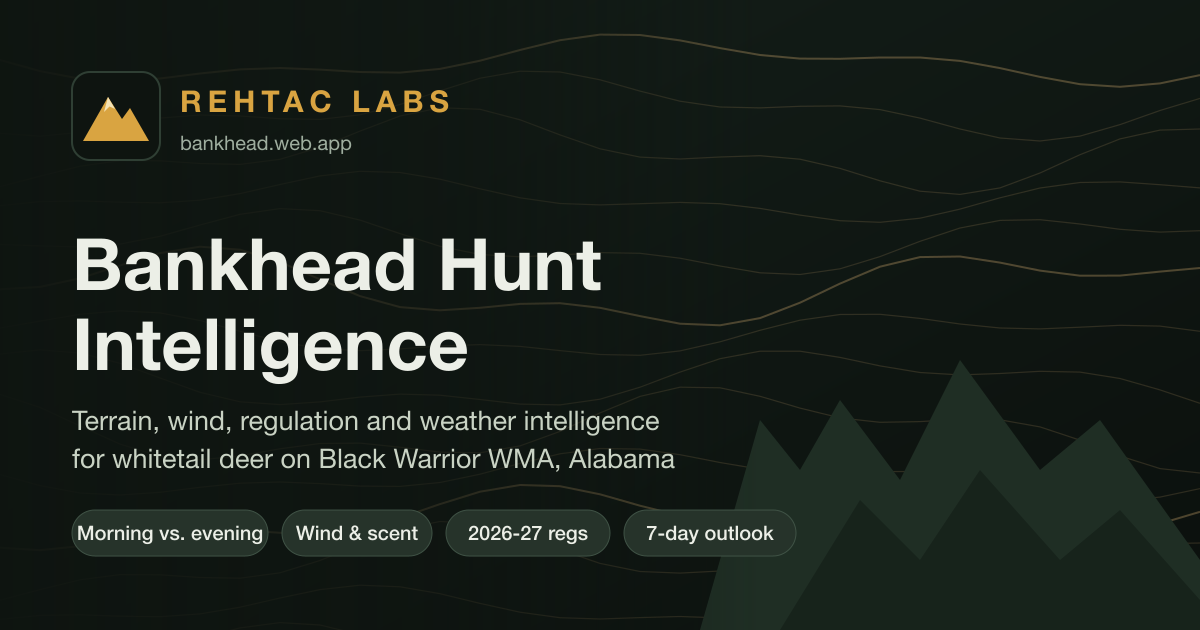
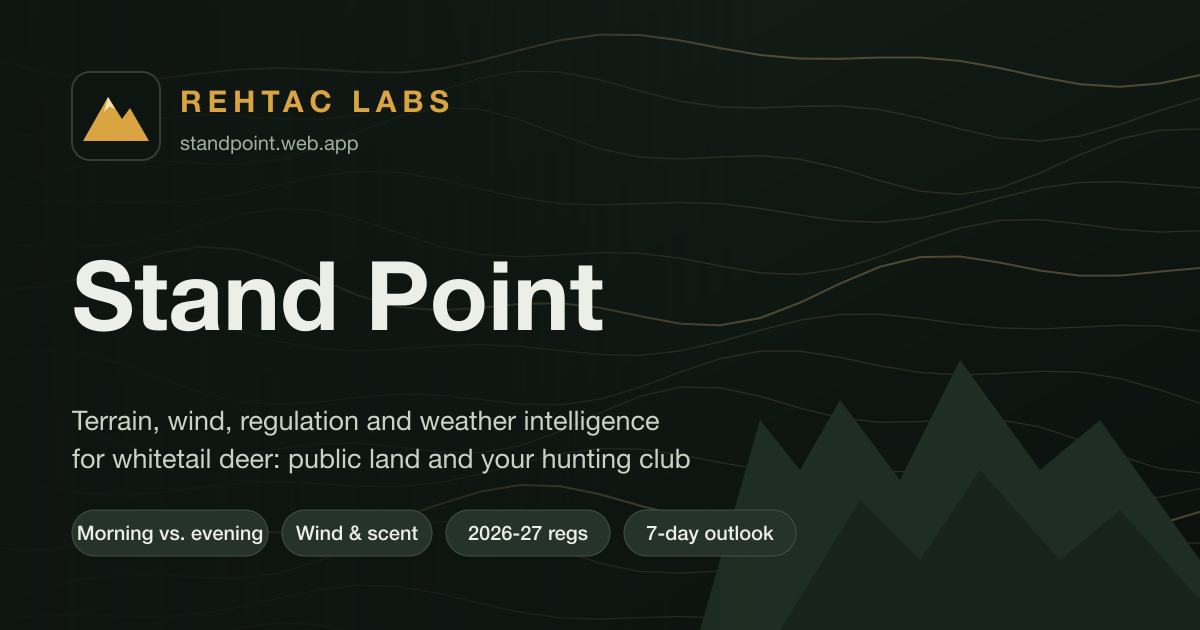
Rename to Stand Point at standpoint.web.app
The app now covers private hunting clubs as well as Bankhead, so it gets a
name that isn't tied to one forest. New hosting site standpoint; the old
bankhead site gets a forwarding page (redirect/) and a service worker that
retires the old installed app. Sign-in uses whichever site serves the page.

Changed region(s): [[0.0617, 0.3619, 0.5242, 0.6333], [0.2158, 0.6937, 0.5858, 0.754], [0.1542, 0.2111, 0.3083, 0.2413]]

diff --git a/src/features/you/YouScreen.tsx b/src/features/you/YouScreen.tsx
@@ -23,7 +23,7 @@ export function YouScreen({ ctl, account, sync, theme, setTheme, journal, canIns
   const openWorkspace = (id: string) => { ctl.switchWorkspace(id); window.location.hash = '/explore'; };
   const t = syncText(sync);
 
-  const exportJson = () => downloadText(`bankhead-backup-${localDate()}.json`, JSON.stringify({ app: 'bankhead-hunt-intelligence', version: 2, exported: new Date().toISOString(), journal, pins: ctl.pins, prefs: ctl.prefs }, null, 1));
+  const exportJson = () => downloadText(`standpoint-backup-${localDate()}.json`, JSON.stringify({ app: 'bankhead-hunt-intelligence', version: 2, exported: new Date().toISOString(), journal, pins: ctl.pins, prefs: ctl.prefs }, null, 1));
   const importGpx = async (f: File) => {
     try {
       const incoming = gpxToPins(await f.text());
@@ -90,7 +90,7 @@ export function YouScreen({ ctl, account, sync, theme, setTheme, journal, canIns
       <div className="section-label">Your data</div>
       <div className="list">
         <ListRow icon={<Download size={18} />} title="Export backup" sub={`${journal.length} journal entries, ${ctl.pins.length} pins (.json)`} onClick={exportJson} />
-        <ListRow icon={<MapPin size={18} />} title="Export pins as GPX" sub="For your GPS or another app" onClick={() => downloadText(`bankhead-pins-${localDate()}.gpx`, pinsToGpx(ctl.pins as PinDoc[]), 'application/gpx+xml')} disabled={!ctl.pins.length} />
+        <ListRow icon={<MapPin size={18} />} title="Export pins as GPX" sub="For your GPS or another app" onClick={() => downloadText(`standpoint-pins-${localDate()}.gpx`, pinsToGpx(ctl.pins as PinDoc[]), 'application/gpx+xml')} disabled={!ctl.pins.length} />
         <label className="list-row file-row"><span className="ico"><Upload size={18} /></span><span className="grow"><div className="title">Import pins from GPX</div><div className="sub">Waypoints from a GPS or hunting app</div></span><input type="file" accept=".gpx,application/gpx+xml" onChange={(e) => { const f = e.target.files?.[0]; if (f) void importGpx(f); e.currentTarget.value = ''; }} /></label>
       </div>
 
@@ -99,7 +99,7 @@ export function YouScreen({ ctl, account, sync, theme, setTheme, journal, canIns
         {canInstall && <ListRow icon={<Smartphone size={18} />} tone="brand" title="Install on this device" sub="Opens full-screen, keeps maps for weak signal" onClick={onInstall} />}
         <ListRow icon={<FileText size={18} />} title="Sources and methods" sub="Data inventory, regulations, known gaps" onClick={() => setPage('sources')} />
         <ListRow icon={<Shield size={18} />} title="Privacy" sub="Your journal and pins are visible only to you. A club is visible only to its members." />
-        <ListRow icon={<Info size={18} />} title="Bankhead Hunt Intelligence" sub="© Rehtac Software LLC · decision support only" />
+        <ListRow icon={<Info size={18} />} title="Stand Point" sub="© Rehtac Software LLC · decision support only" />
       </div>
       {u && <Button block icon={<LogOut size={18} />} onClick={() => void account.signOut()} disabled={account.busy}>Sign out</Button>}
       {!u && <Button block variant="quiet" icon={<LogIn size={18} />} onClick={() => void account.signIn()}>Sign in</Button>}

diff --git a/redirect/index.html b/redirect/index.html
@@ -1,0 +1,43 @@
+<!doctype html>
+<html lang="en">
+<head>
+  <meta charset="utf-8" />
+  <meta name="viewport" content="width=device-width, initial-scale=1, viewport-fit=cover" />
+  <title>Stand Point has moved</title>
+  <meta name="theme-color" content="#0b100d" />
+  <link rel="canonical" href="https://standpoint.web.app/" />
+  <style>
+    :root { color-scheme: dark; }
+    body { margin: 0; min-height: 100vh; display: grid; place-items: center; background: #0b100d; color: #ecefe7; font: 16px/1.5 -apple-system, BlinkMacSystemFont, "Segoe UI", Inter, sans-serif; }
+    main { max-width: 420px; padding: 32px 20px; }
+    h1 { font-size: 26px; margin: 0 0 8px; }
+    p { color: #c9d3c4; margin: 0 0 14px; }
+    a.btn { display: block; text-align: center; background: #d9a441; color: #15201a; font-weight: 700; text-decoration: none; padding: 14px 18px; border-radius: 12px; margin: 20px 0; }
+    ol { color: #c9d3c4; padding-left: 20px; margin: 0; }
+    li + li { margin-top: 6px; }
+    small { color: #8a978a; }
+  </style>
+</head>
+<body>
+  <main>
+    <h1>Bankhead Hunt is now Stand Point</h1>
+    <p>Same app, new name and address, because it now covers more than Bankhead.</p>
+    <a class="btn" id="go" href="https://standpoint.web.app/">Open Stand Point</a>
+    <p id="installed" hidden><strong>Using the home-screen app?</strong></p>
+    <ol id="steps" hidden>
+      <li>Tap <em>Open Stand Point</em>, then sign in with Google. Your journal, pins, settings and club come back automatically.</li>
+      <li>Add it to your Home Screen (Share → Add to Home Screen).</li>
+      <li>Delete the old Bankhead Hunt icon.</li>
+    </ol>
+    <p style="margin-top:18px"><small>Offline maps you saved need to be saved again in the new app.</small></p>
+  </main>
+  <script>
+    // keep the path and hash (e.g. #you) so links in old invitations still land in the right place
+    var dest = 'https://standpoint.web.app' + location.pathname + location.search + location.hash;
+    document.getElementById('go').href = dest;
+    var standalone = matchMedia('(display-mode: standalone)').matches || navigator.standalone === true;
+    if (standalone) { document.getElementById('installed').hidden = false; document.getElementById('steps').hidden = false; }
+    else location.replace(dest);
+  </script>
+</body>
+</html>

diff --git a/index.html b/index.html
@@ -11,21 +11,21 @@
     <meta name="apple-mobile-web-app-capable" content="yes" />
     <meta name="apple-mobile-web-app-status-bar-style" content="black-translucent" />
     <meta name="description" content="Terrain, wind, regulation and weather intelligence for deer hunting on Black Warrior WMA / Bankhead National Forest." />
-    <title>Bankhead Hunt Intelligence</title>
-    <link rel="canonical" href="https://bankhead.web.app/" />
+    <title>Stand Point</title>
+    <link rel="canonical" href="https://standpoint.web.app/" />
     <meta property="og:type" content="website" />
     <meta property="og:site_name" content="Rehtac Labs" />
-    <meta property="og:url" content="https://bankhead.web.app/" />
-    <meta property="og:title" content="Bankhead Hunt Intelligence" />
+    <meta property="og:url" content="https://standpoint.web.app/" />
+    <meta property="og:title" content="Stand Point" />
     <meta property="og:description" content="Terrain, wind, regulation and weather intelligence for whitetail deer on Black Warrior WMA / Bankhead National Forest, Alabama." />
-    <meta property="og:image" content="https://bankhead.web.app/og.png" />
+    <meta property="og:image" content="https://standpoint.web.app/og.png" />
     <meta property="og:image:width" content="1200" />
     <meta property="og:image:height" content="630" />
-    <meta property="og:image:alt" content="Bankhead Hunt Intelligence — terrain, wind, regulation and weather intelligence for Black Warrior WMA" />
+    <meta property="og:image:alt" content="Stand Point — terrain, wind, regulation and weather intelligence for Black Warrior WMA" />
     <meta name="twitter:card" content="summary_large_image" />
-    <meta name="twitter:title" content="Bankhead Hunt Intelligence" />
+    <meta name="twitter:title" content="Stand Point" />
     <meta name="twitter:description" content="Terrain, wind, regulation and weather intelligence for whitetail deer on Black Warrior WMA, Alabama." />
-    <meta name="twitter:image" content="https://bankhead.web.app/og.png" />
+    <meta name="twitter:image" content="https://standpoint.web.app/og.png" />
   </head>
   <body>
     <div id="root"></div>

diff --git a/src/engine/backup.ts b/src/engine/backup.ts
@@ -18,7 +18,7 @@ export function makeBackup(pins: UserPin[], journal: JournalEntry[], prefs: unkn
 
 export function parseBackup(text: string): Backup {
   const j = JSON.parse(text) as Partial<Backup>;
-  if (j.app !== 'bankhead-hunt-intelligence' || !Array.isArray(j.pins) || !Array.isArray(j.journal)) throw new Error('Not a Bankhead Hunt backup file.');
+  if (j.app !== 'bankhead-hunt-intelligence' || !Array.isArray(j.pins) || !Array.isArray(j.journal)) throw new Error('Not a Stand Point backup file.');
   return j as Backup;
 }
 
@@ -32,7 +32,7 @@ const esc = (s: string) => s.replace(/[<>&"]/g, (c) => ({ '<': '&lt;', '>': '&gt
 
 export function pinsToGpx(pins: UserPin[]): string {
   const wpts = pins.map((p) => `  <wpt lat="${p.coord[1]}" lon="${p.coord[0]}"><name>${esc(p.kind.replace('_', ' '))}${p.candidateId ? ` ${esc(p.candidateId)}` : ''}</name><desc>${esc(p.note || '')}</desc><time>${p.created}</time><type>${esc(p.kind)}</type></wpt>`).join('\n');
-  return `<?xml version="1.0" encoding="UTF-8"?>\n<gpx version="1.1" creator="Bankhead Hunt Intelligence" xmlns="http://www.topografix.com/GPX/1/1">\n${wpts}\n</gpx>`;
+  return `<?xml version="1.0" encoding="UTF-8"?>\n<gpx version="1.1" creator="Stand Point" xmlns="http://www.topografix.com/GPX/1/1">\n${wpts}\n</gpx>`;
 }
 
 /** Minimal GPX waypoint import (lat/lon/name/type). */

diff --git a/src/lib/firebase.ts b/src/lib/firebase.ts
@@ -4,11 +4,14 @@ import type { FirebaseApp } from 'firebase/app';
 import type { Auth } from 'firebase/auth';
 import type { Database } from 'firebase/database';
 
+/** Hosting sites that serve this app (each is an authorized domain with its own OAuth redirect URI). */
+const SITES = ['standpoint.web.app', 'bankhead.web.app'];
+
 export const firebaseConfig = {
   apiKey: 'AIzaSyC7ksEzwS4Rw57AnCKxVBjEj_ohZysnGFg',
   // Sign-in runs through this site's own /__/auth/handler (served by Firebase Hosting), not rehtac-labs.firebaseapp.com:
   // browsers partition storage across sites, so a cross-site handler silently loses the redirect result (iPhone, Safari, Chrome).
-  authDomain: typeof location !== 'undefined' && location.hostname === 'bankhead.web.app' ? 'bankhead.web.app' : 'rehtac-labs.firebaseapp.com',
+  authDomain: typeof location !== 'undefined' && SITES.includes(location.hostname) ? location.hostname : 'rehtac-labs.firebaseapp.com',
   databaseURL: 'https://bankhead-hunt.firebaseio.com',
   projectId: 'rehtac-labs',
   storageBucket: 'rehtac-labs.firebasestorage.app',

diff --git a/src/features/explore/ZoneDetail.tsx b/src/features/explore/ZoneDetail.tsx
@@ -22,7 +22,7 @@ export function zoneUrl(rec: HuntRecommendation) {
 async function shareZone(rec: HuntRecommendation) {
   const url = zoneUrl(rec);
   const text = `${rec.candidate.label} ${rec.areaId} · ${rec.landJurisdiction} · ${rec.huntDate} ${SESSION_LABEL[rec.session]} · score ${rec.score ?? '—'}`;
-  try { if (navigator.share) await navigator.share({ title: 'Bankhead Hunt Intelligence', text, url }); else { await navigator.clipboard.writeText(url); alert('Link copied.'); } } catch { /* cancelled */ }
+  try { if (navigator.share) await navigator.share({ title: 'Stand Point', text, url }); else { await navigator.clipboard.writeText(url); alert('Link copied.'); } } catch { /* cancelled */ }
 }
 
 function Section({ id, title, open, setOpen, children }: { id: string; title: string; open: string | null; setOpen: (v: string | null) => void; children: ReactNode }) {

diff --git a/src/features/you/SourcesScreen.tsx b/src/features/you/SourcesScreen.tsx
@@ -8,7 +8,7 @@ export function SourcesScreen({ registry }: { registry: SourceRegistry | null })
       <section className="card">
         <h2>Governing regulations</h2>
         <ul className="t-sm" style={{ marginTop: 8 }}>{GOVERNING_LINKS.map((l) => <li key={l.url}><a href={l.url} target="_blank" rel="noreferrer">{l.title}</a></li>)}</ul>
-        <p className="t-xs muted" style={{ marginTop: 8 }}>Bankhead Hunt Intelligence is not affiliated with ADCNR or the USDA Forest Service and does not provide check-in or harvest reporting.</p>
+        <p className="t-xs muted" style={{ marginTop: 8 }}>Stand Point is not affiliated with ADCNR or the USDA Forest Service and does not provide check-in or harvest reporting.</p>
       </section>
       <section className="card">
         <h2>Data inventory</h2>

diff --git a/src/lib/clubs.ts b/src/lib/clubs.ts
@@ -57,10 +57,10 @@ export function inviteProblem(club: Club, email: string): string | null {
 
 /** The message sent with an invitation (by the inviter's own share sheet or email app). */
 export function inviteMessage(club: Club, email: string, from: string): { title: string; text: string; url: string } {
-  const url = 'https://bankhead.web.app/#you';
+  const url = 'https://standpoint.web.app/#you';
   return {
     title: `Join ${club.land.name}`,
-    text: `${from} invited you to ${club.land.name} on Bankhead Hunt Intelligence. Open the app and sign in with Google as ${email.trim().toLowerCase()} to accept.`,
+    text: `${from} invited you to ${club.land.name} on Stand Point. Open the app and sign in with Google as ${email.trim().toLowerCase()} to accept.`,
     url,
   };
 }

diff --git a/redirect/sw.js b/redirect/sw.js
@@ -1,0 +1,10 @@
+// Replaces the old Bankhead Hunt service worker: clears its caches, unregisters itself and reloads open windows,
+// so an installed copy stops serving the old app and shows the "moved to Stand Point" page instead.
+self.addEventListener('install', () => self.skipWaiting());
+self.addEventListener('activate', (event) => {
+  event.waitUntil((async () => {
+    for (const key of await caches.keys()) await caches.delete(key);
+    await self.registration.unregister();
+    for (const client of await self.clients.matchAll({ type: 'window' })) client.navigate(client.url);
+  })());
+});

diff --git a/vite.config.ts b/vite.config.ts
@@ -9,8 +9,8 @@ export default defineConfig({
       registerType: 'autoUpdate',
       includeAssets: ['icon.svg', 'icon-192.png'],
       manifest: {
-        name: 'Bankhead Hunt Intelligence',
-        short_name: 'Bankhead Hunt',
+        name: 'Stand Point',
+        short_name: 'Stand Point',
         description: 'Terrain, wind, regulation and weather intelligence for Black Warrior WMA, the National Forest and your own hunting land.',
         theme_color: '#0b100d',
         background_color: '#0b100d',

diff --git a/docs/ACCOUNTS.md b/docs/ACCOUNTS.md
@@ -58,8 +58,8 @@ The next time that person signs in with that verified Google address, the app co
 - The store has no React or Firebase imports; both are injected, which is how it is unit-tested (`sync.test.ts`).
 
 ## Sign-in notes
-- Provider: Google, via Firebase Authentication on project `rehtac-labs`. `bankhead.web.app` is an authorized domain.
-- Sign-in runs through `bankhead.web.app/__/auth/handler` (same site), not `rehtac-labs.firebaseapp.com`: browsers partition storage across sites, which silently loses a cross-site redirect result. The OAuth client lists that handler as an authorized redirect URI. Phones and the installed app use redirect sign-in; desktops use a popup. The service worker never serves the app shell for `/__/`.
+- Provider: Google, via Firebase Authentication on project `rehtac-labs`. `standpoint.web.app` and `bankhead.web.app` are authorized domains.
+- Sign-in runs through the site's own `/__/auth/handler` (`standpoint.web.app`, or `bankhead.web.app` on the old address), not `rehtac-labs.firebaseapp.com`: browsers partition storage across sites, which silently loses a cross-site redirect result. The OAuth web client lists each site's handler as an authorized redirect URI (Cloud Console → Credentials; there is no API for it), so a new hosting address needs one added there. Phones and the installed app use redirect sign-in; desktops use a popup. The service worker never serves the app shell for `/__/`.
 
 ## Workspaces
 `wma` and `nf` are built in. Each club becomes `club:{id}` and each land in the account `land:{id}` (an old `land:{id}` setting opens `club:{id}` once the land is a club). The active workspace decides the zones, boundary, rules, weather location and map framing, and is saved to the account.

diff --git a/README.md b/README.md
@@ -1,8 +1,10 @@
-# Bankhead Hunt Intelligence
+# Stand Point
 
 Mobile-first PWA that ranks scouting/hunting zones for whitetail deer on **Black Warrior WMA**, the surrounding **National Forest**, and **your own private land**, using terrain, habitat, wind/scent, access, time-of-day/rut context, weather and **verified 2026-27 regulations**, and explains every ranking. Sign in with Google and your journal, pins and settings follow you across devices; hunting clubs are shared by invitation and visible only to their members.
 
-Live: **https://bankhead.web.app** (Firebase Hosting, project `rehtac-labs`, site `bankhead`)
+Live: **https://standpoint.web.app** (Firebase Hosting, project `rehtac-labs`, site `standpoint`). The old address, https://bankhead.web.app (site `bankhead`, served from `redirect/`), forwards here and retires the old installed app.
+
+Formerly *Bankhead Hunt Intelligence*; renamed because it now covers private hunting clubs as well as the Bankhead National Forest.
 
 ## Architecture
 
@@ -47,7 +49,8 @@ npm run data:club    # rebuild the public terrain/roads data for the private-lan
 npm run test:rules   # security rules against the database emulator (needs JDK 21+)
 npm run deploy:rules # publish database.rules.json
 npm run club:create -- --owner-email you@gmail.com --id my-club --file boundary.geojson --name "My Club"   # create a club; the owner invites members in the app
-npm run deploy       # build + firebase deploy --only hosting:bankhead --project rehtac-labs
+npm run deploy       # build + deploy the app to standpoint.web.app
+npm run deploy:old-address  # the bankhead.web.app forwarding page (redirect/)
 ```
 
 ## Documentation
